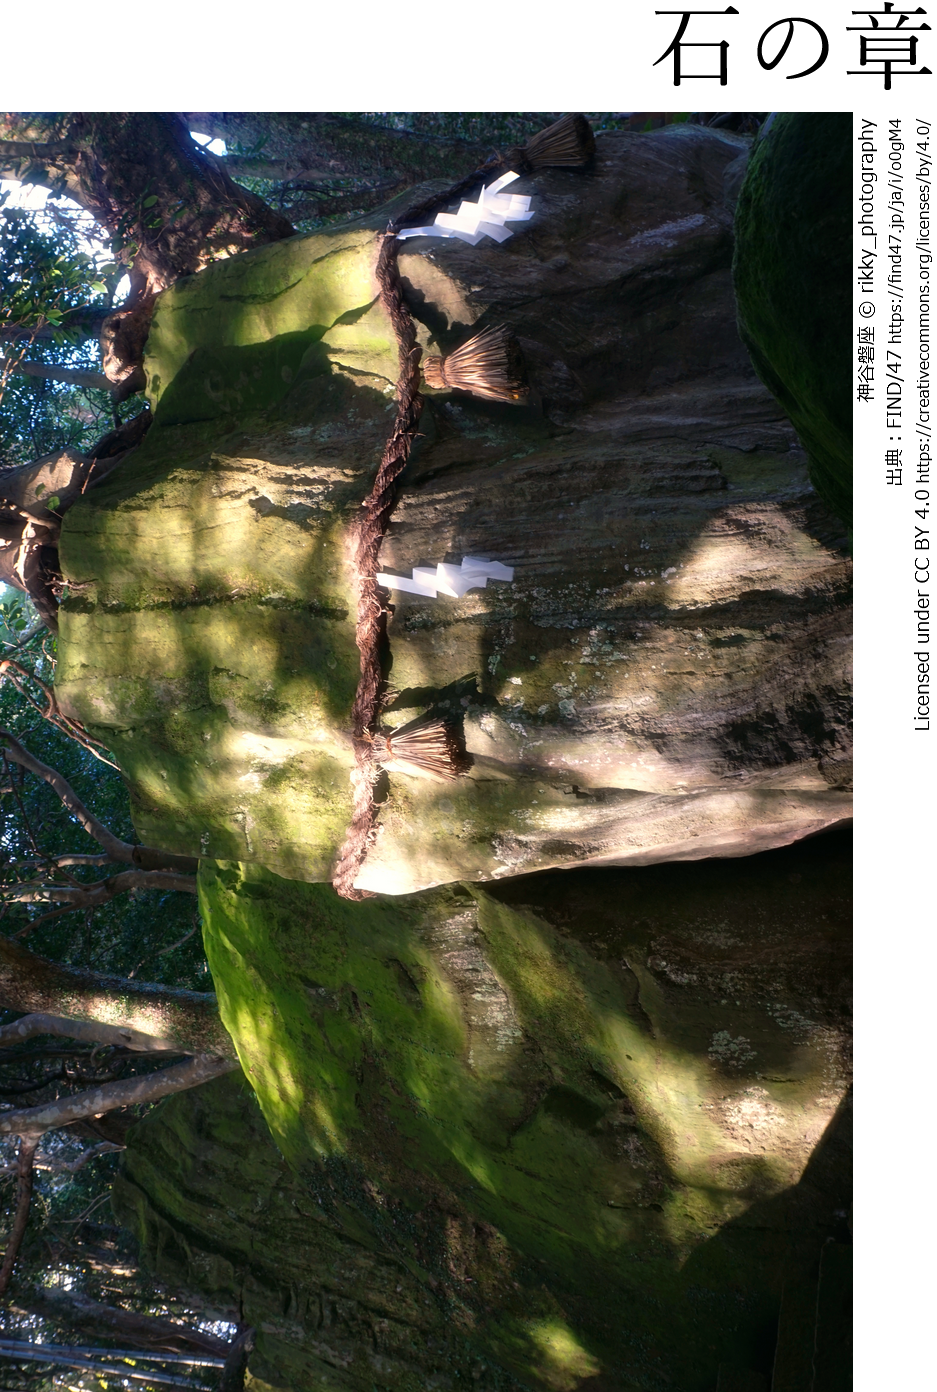
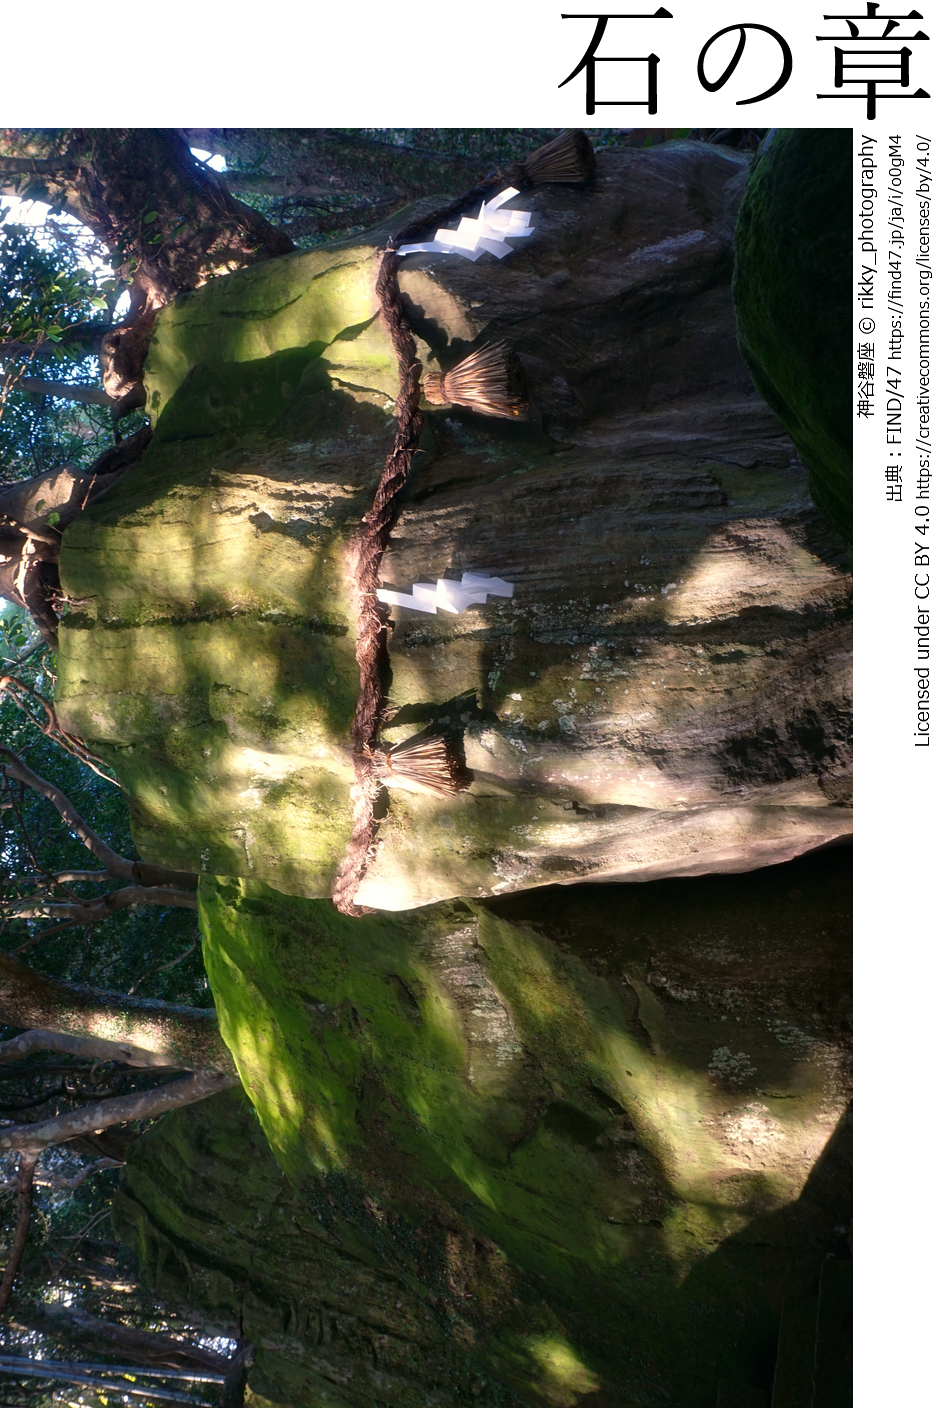
各章冒頭の写真の章名のフォントサイズを大きくした

diff --git a/images/photo.css b/images/photo.css
@@ -36,8 +36,7 @@ figure.title-and-image > figcaption {
   background-color: #fff;
   color: #000;
   font-family: serif;
-  font-size: 3rem;
-  line-height: 3rem;
-  padding-bottom: 0.5rem;
+  font-size: 4rem;
+  line-height: 4rem;
   text-align: right;
 }
